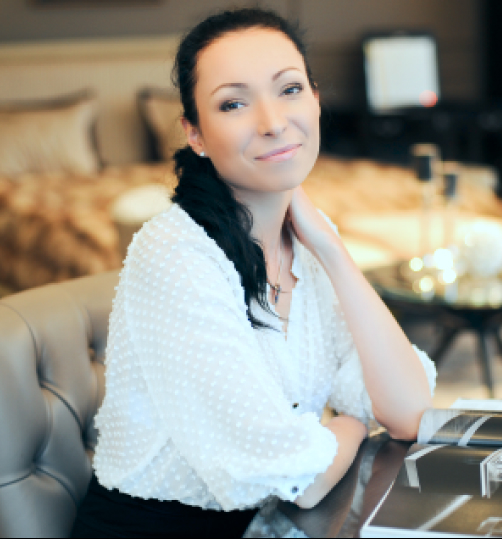
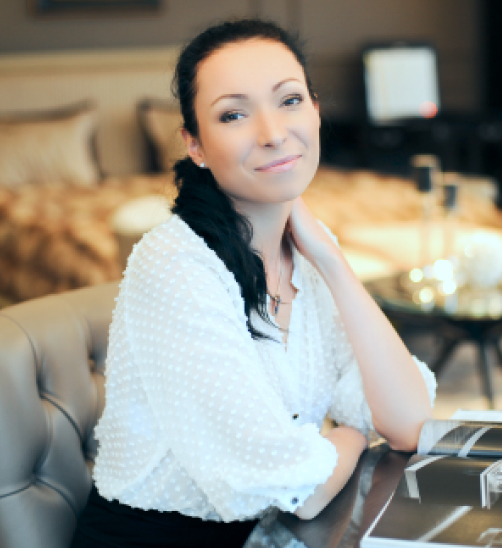
сверстает секцию about

diff --git a/index.html b/index.html
@@ -4,6 +4,8 @@
   <meta charset="UTF-8">
   <meta http-equiv="X-UA-Compatible" content="IE=edge">
   <meta name="viewport" content="width=device-width, initial-scale=1.0">
+
+  <!-- fonts -->
   <link rel="preconnect" href="https://fonts.googleapis.com">
   <link rel="preconnect" href="https://fonts.gstatic.com" crossorigin>
   <link href="https://fonts.googleapis.com/css2?family=Lora&family=Roboto&display=swap" rel="stylesheet">
@@ -83,7 +85,9 @@
 
   </header>
 
+  <!-- main -->
   <main class="main">
+    <!-- portfolio -->
     <section class="portfolio">
       <div class="container">
         <div class="portfolio__title">
@@ -129,9 +133,45 @@
       </div>
     </section>
 
+    <!-- about -->
+    <section class="about">
+      <div class="container">
+        <div class="about__title">
+          <h2 class="h2 h2--white">Обо мне</h2>
+        </div>
+        <div class="about__content">
+          <div class="about__img">
+            <img src="./img/author.jpg" white="502" height="548" alt="author">
+          </div>
+          <div class="about__desc">
+            <div class="about__text">
+              <p>
+                Более 20-ти лет активной работы дизайнером интерьера позволили мне накопить ценнейшие опыт и знания для создания роскошных и респектабельных интерьеров, отвечающих всем требованиям даже самого взыскательного Заказчика, превращая его неясные фантазии и желания в настоящие эксклюзивные интерьеры любой сложности, в различных стилистических направлениях. 
+              </p>
+              <p>
+                Моё творческое кредо в профессии: «Дизайнера в проекте должно быть как можно меньше, а самая важная деталь при создании интерьера — это идея и искреннее отношение к проекту и заказчику».
+              </p>
+            </div>
+
+            <div class="about__statistic">
+              <div class="about__statistic-item">
+                <p class="num">20</p>
+                <span>Лет опыта</span>
+              </div>
+
+              <div class="about__statistic-item">
+                <p class="num">300</p>
+                <span>Реализованных проектов</span>
+              </div>
+            </div>
+          </div>
+        </div>
+      </div>
+    </section>
 
   </main>
 
+  <!-- footer -->
   <footer class="footer"></footer>
 
   <!-- jquery -->

diff --git a/css/main.css b/css/main.css
@@ -73,6 +73,10 @@ button, input {
   line-height: 51px;
 }
 
+.h2--white {
+  color: white;
+}
+
 .text-upper {
   text-transform: uppercase;
   font-size: 13px;
@@ -295,8 +299,6 @@ button, input {
 .portfolio-content {
   display: flex;
   flex-wrap: wrap;
-  /* wrap - разрешаем переносить карточки, если не влезает */
-  /* по-умолчанию запрещается пернос */
   column-gap: 20px;
   row-gap: 20px;
 }
@@ -305,7 +307,6 @@ button, input {
   width: 400px;
   height: 440px;
   overflow: hidden;
-  /* чтобы размер карточки оставался прежним */
 }
 
 .portfolio-card img {
@@ -314,7 +315,52 @@ button, input {
 
 .portfolio-card:hover img{
   transform: scale(1.05);
-  /* увеличение элемента на 5% при наведении курсора */
   filter: grayscale();
 }
 
+.about {
+  padding-top: 100px;
+  padding-bottom: 197px;
+  background-color: #574E56;
+  border: 1px solid #000000;
+}
+
+.about__img {
+  flex-shrink: 0;
+}
+
+.about__content {
+  display: flex;
+  column-gap: 115px;
+  align-items: center;
+}
+
+.about__desc {
+  width: 456px;
+}
+
+.about__text {
+  line-height: 24px;
+  margin-bottom: 36px;
+  color: #FFFFFF;
+}
+
+.about__text p+p {
+  margin-top: 24px;
+}
+
+.about__statistic {
+  display: flex;
+  column-gap: 102px;
+}
+
+.about__statistic-item p {
+  font-size: 100px;
+  line-height: 128px;
+  color: #F6D5A7;
+  font-family: 'Lora', serif;
+}
+
+.about__statistic-item span {
+  color: #FFFFFF;
+}
